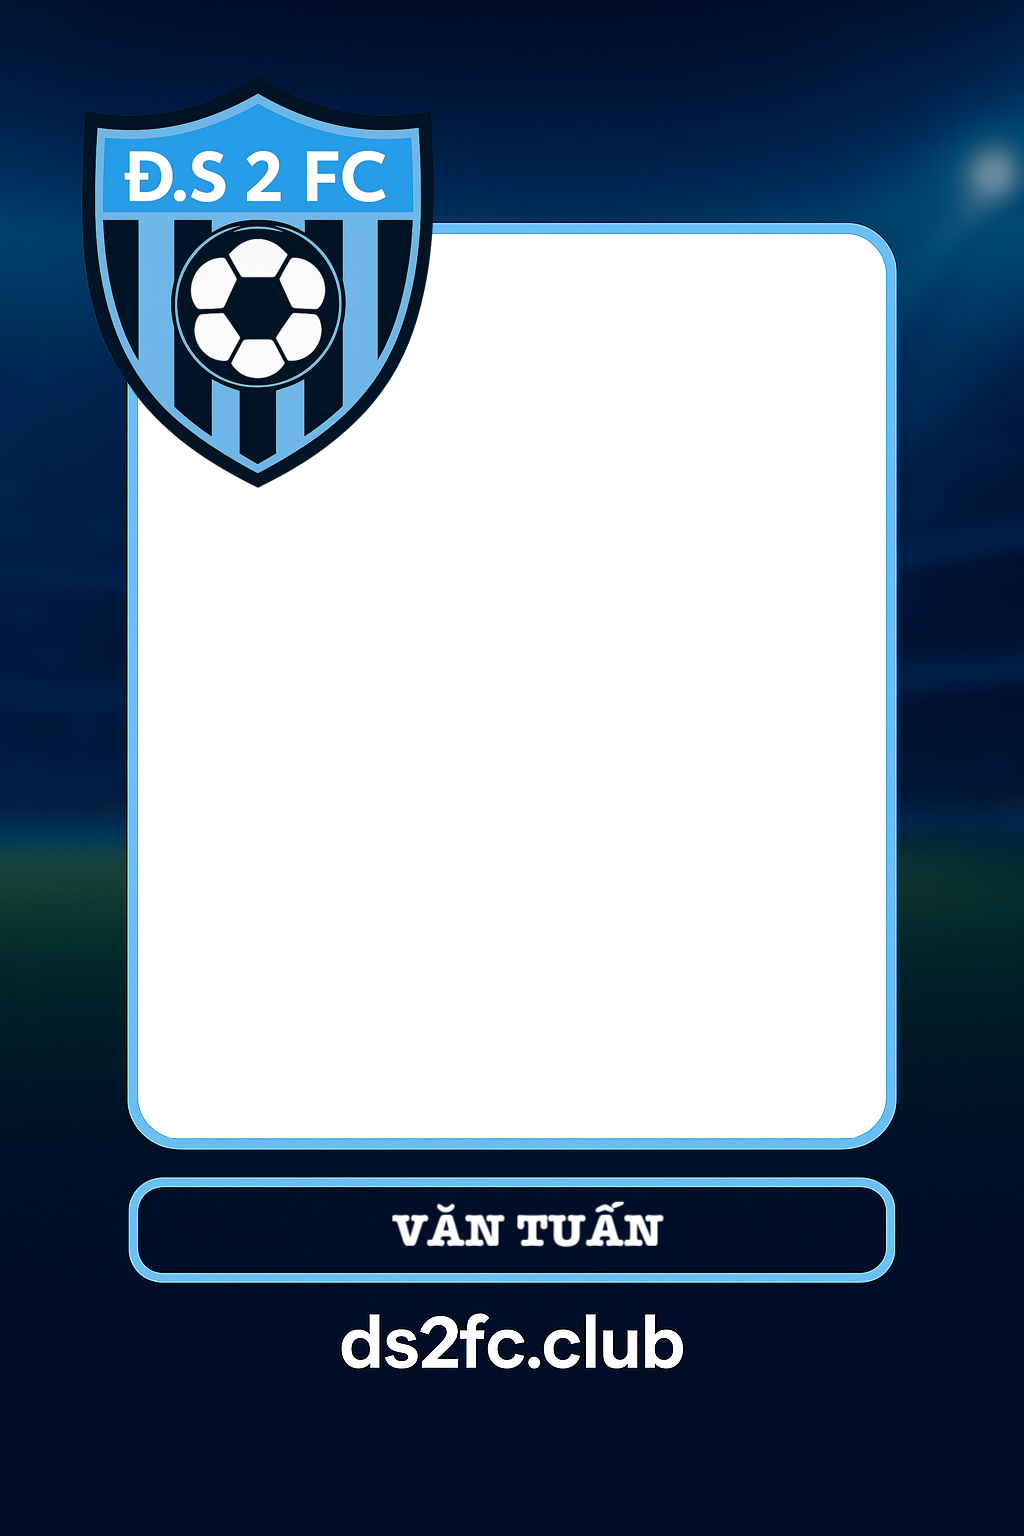
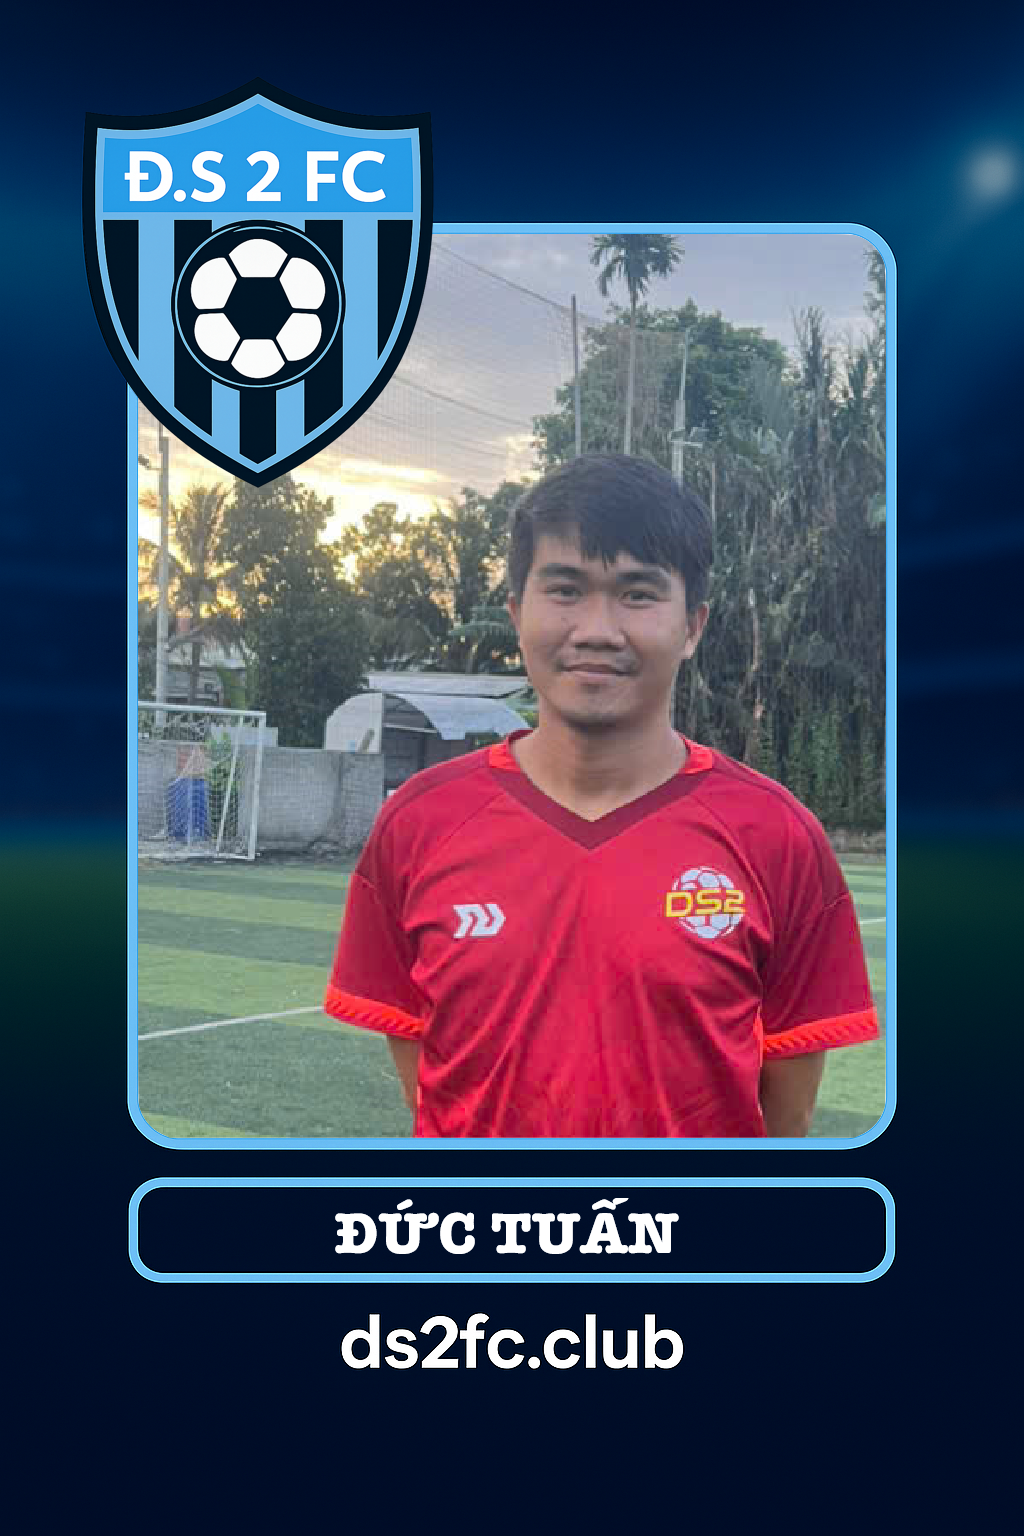
Deploy ds2fc on Thu Jul 24 12:23:45 SEAST 2025

diff --git a/flutter_service_worker.js b/flutter_service_worker.js
@@ -62,7 +62,7 @@ const RESOURCES = {"assets/AssetManifest.bin": "ec9d71df0f550d30891159817688bbe6
 "assets/assets/images/players/trannguyenthailand.jpg": "0f8c315ed498a6a203b6692bd03e3459",
 "assets/assets/images/players/trungle.jpg": "c494794fb4fbb98a75fbfcbdc68e7117",
 "assets/assets/images/players/truongtuanphuong.png": "6746ac058918f34fb3ab6ef70df7732e",
-"assets/assets/images/players/tuan.png": "7900a17398337aac6114e81b5a1bc9d1",
+"assets/assets/images/players/tuan.png": "faf9f42aa7fcbe873e9c5908b208b914",
 "assets/assets/images/players/tunglam.png": "65295aac9eef670b1f6e631eb80fa807",
 "assets/assets/images/players/vhieu.png": "71bc3fa94599bd7660fa2ce107aef307",
 "assets/assets/images/players/viethocons.png": "6b6b01d6a757feb7f96d890c1ae5ea4c",
@@ -90,7 +90,7 @@ const RESOURCES = {"assets/AssetManifest.bin": "ec9d71df0f550d30891159817688bbe6
 "canvaskit/skwasm.wasm": "39dd80367a4e71582d234948adc521c0",
 "favicon.png": "4e1c00567e5fd8927d26abb9fc4010e8",
 "flutter.js": "83d881c1dbb6d6bcd6b42e274605b69c",
-"flutter_bootstrap.js": "c7e13ed7523d8534d3ecf3c8033b9113",
+"flutter_bootstrap.js": "892e41482562498a008a050b7cf35a98",
 "icons/Icon-192.png": "b858eec0d5dfa6aa3181e070f0afdded",
 "icons/Icon-512.png": "90395b7ead299b7700b1ed3760e1d29e",
 "icons/Icon-maskable-192.png": "b858eec0d5dfa6aa3181e070f0afdded",

diff --git a/flutter_bootstrap.js b/flutter_bootstrap.js
@@ -39,6 +39,6 @@ _flutter.buildConfig = {"engineRevision":"8cd19e509d6bece8ccd74aef027c4ca9473630
 
 _flutter.loader.load({
   serviceWorkerSettings: {
-    serviceWorkerVersion: "305036869"
+    serviceWorkerVersion: "3107190247"
   }
 });
